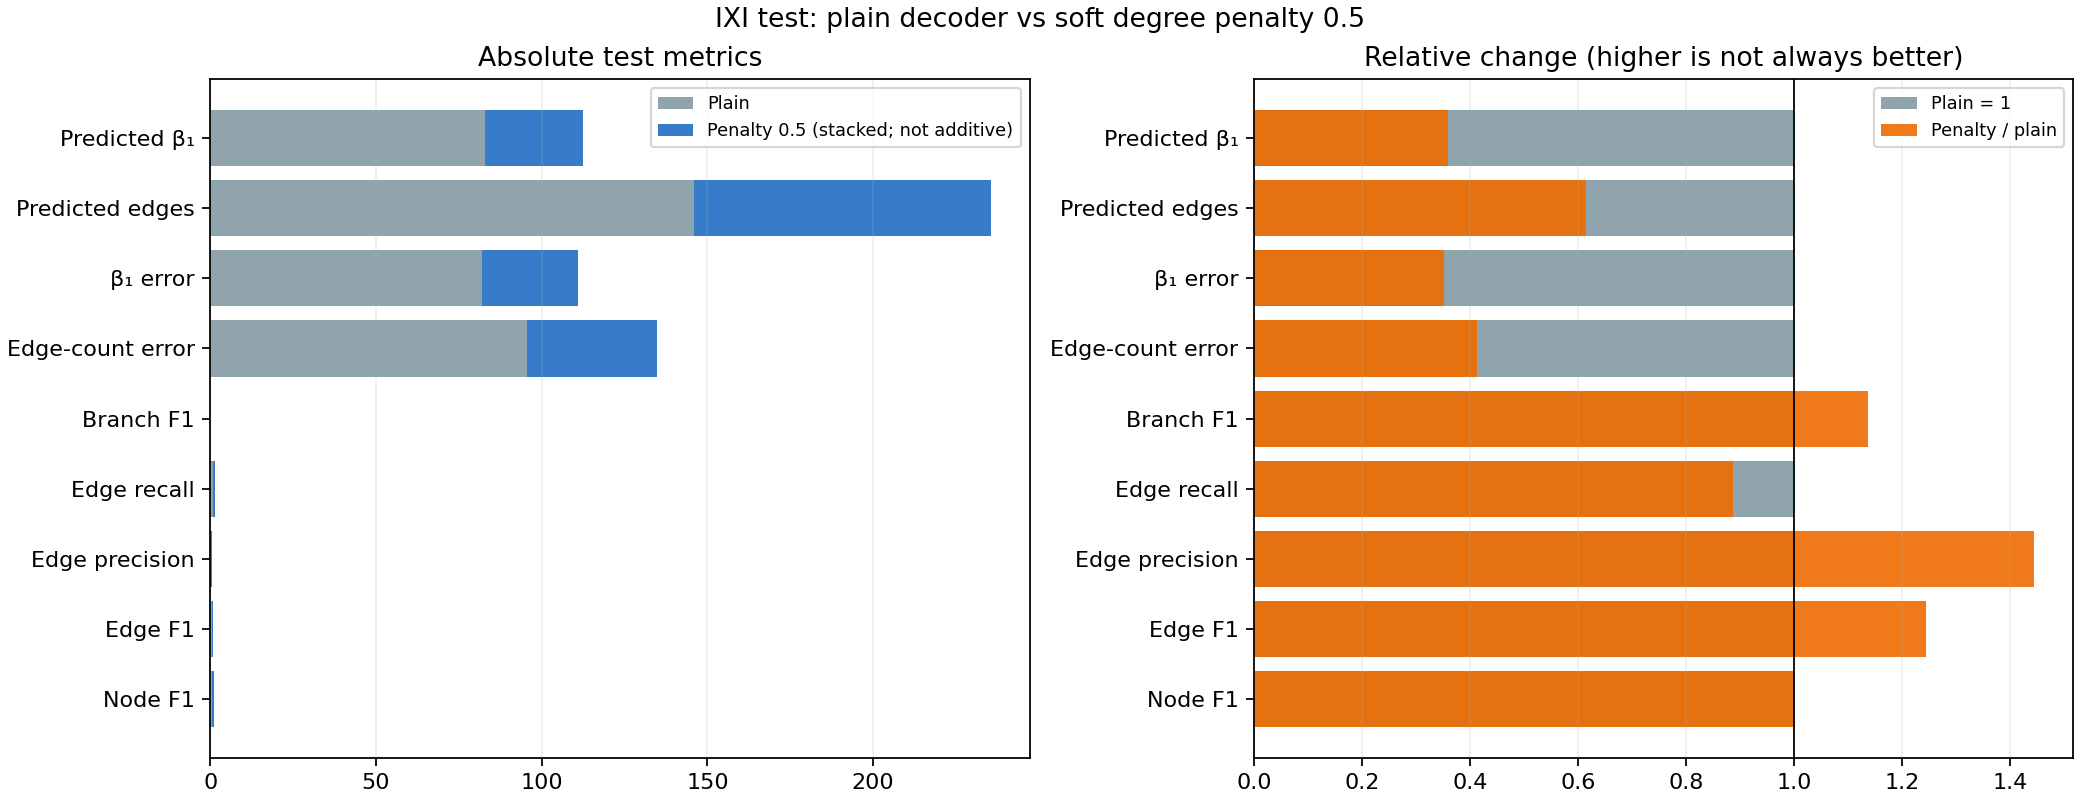
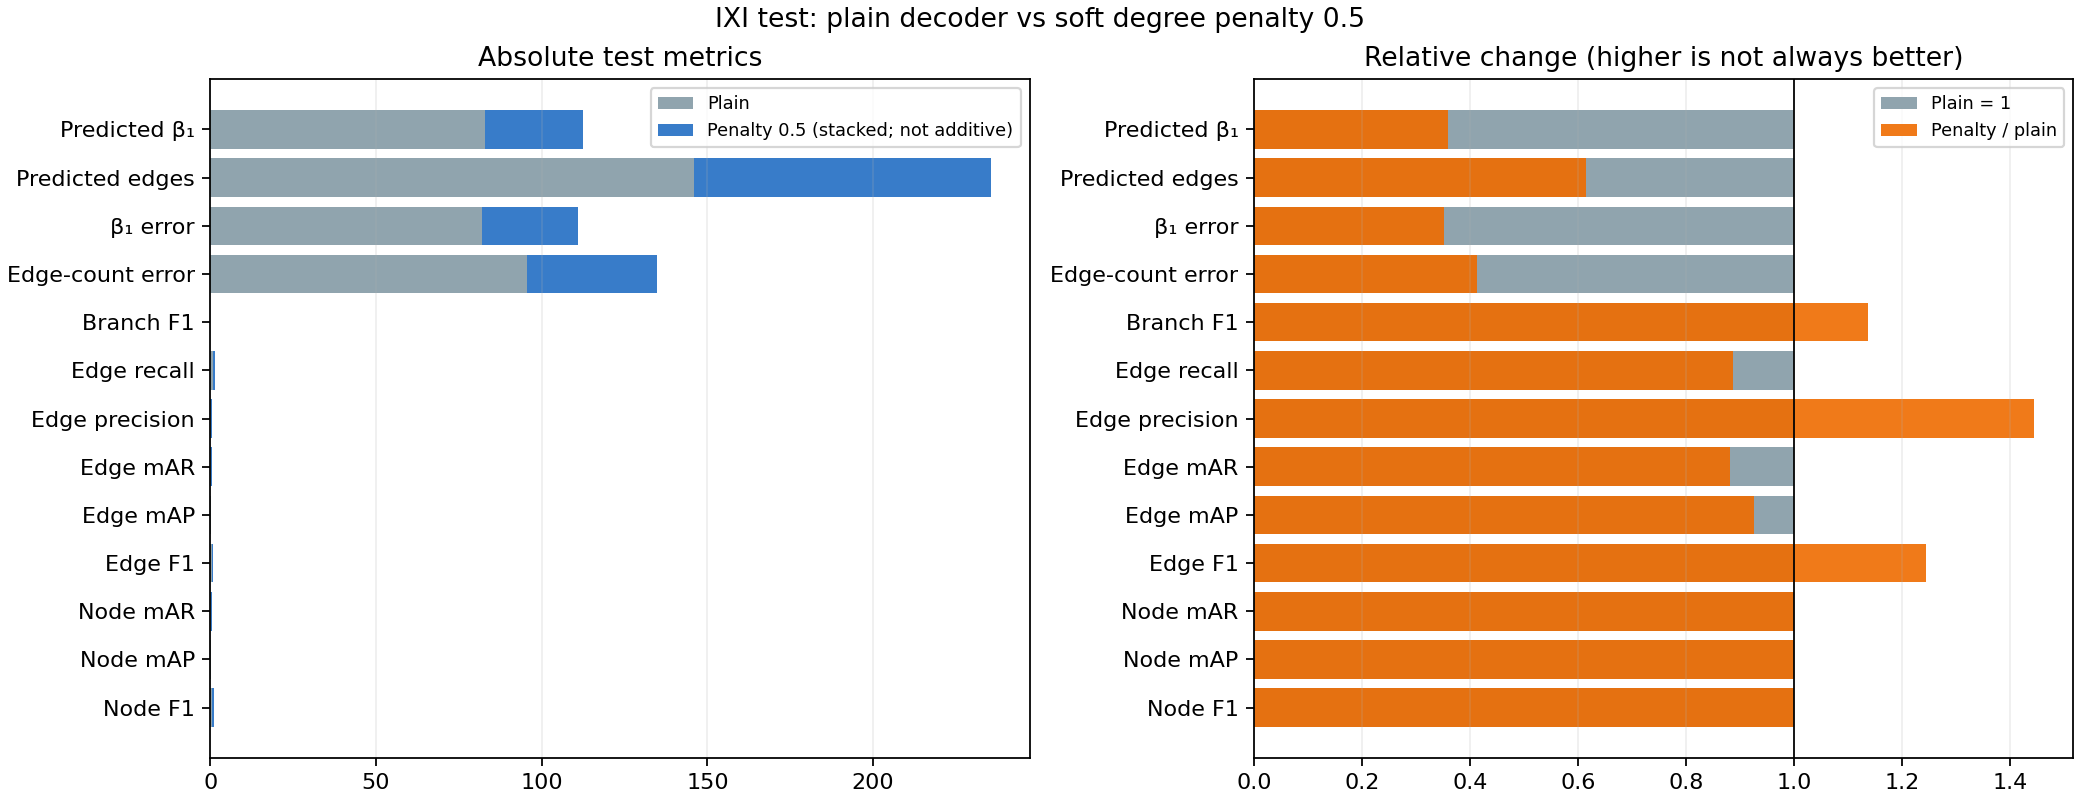
Include mAP and mAR in decoder comparison

diff --git a/docs/research/evidence/domain_ixi_pretraining/compare_test_decoder.py b/docs/research/evidence/domain_ixi_pretraining/compare_test_decoder.py
@@ -19,7 +19,11 @@ PENALTY = ROOT / "test_degree_penalty/penalty_0.5/summary.json"
 
 METRICS = (
     ("node_f1", "Node F1", False),
+    ("node_mAP", "Node mAP", False),
+    ("node_mAR", "Node mAR", False),
     ("edge_f1", "Edge F1", False),
+    ("edge_mAP", "Edge mAP", False),
+    ("edge_mAR", "Edge mAR", False),
     ("edge_precision", "Edge precision", False),
     ("edge_recall", "Edge recall", False),
     ("branch_f1", "Branch F1", False),

diff --git a/docs/research/evidence/domain_ixi_pretraining/test_decoder_comparison.md b/docs/research/evidence/domain_ixi_pretraining/test_decoder_comparison.md
@@ -6,7 +6,11 @@ patches, and identical thresholds. Only `node_type_degree_penalty` changes.
 | Metric | Plain | Penalty 0.5 | Change |
 |---|---:|---:|---:|
 | Node F1 | 0.5103 | 0.5103 | 0 |
+| Node mAP | 0.0984 | 0.0984 | 0 |
+| Node mAR | 0.2262 | 0.2262 | 0 |
 | Edge F1 | 0.3894 | **0.4847** | **+0.0953** |
+| Edge mAP | **0.1011** | 0.0937 | −0.0075 |
+| Edge mAR | **0.2965** | 0.2613 | −0.0353 |
 | Edge precision | 0.2620 | **0.3786** | **+0.1167** |
 | Edge recall | 0.7582 | 0.6732 | −0.0850 |
 | Branch F1 | 0.00887 | **0.01008** | **+0.00121** |
